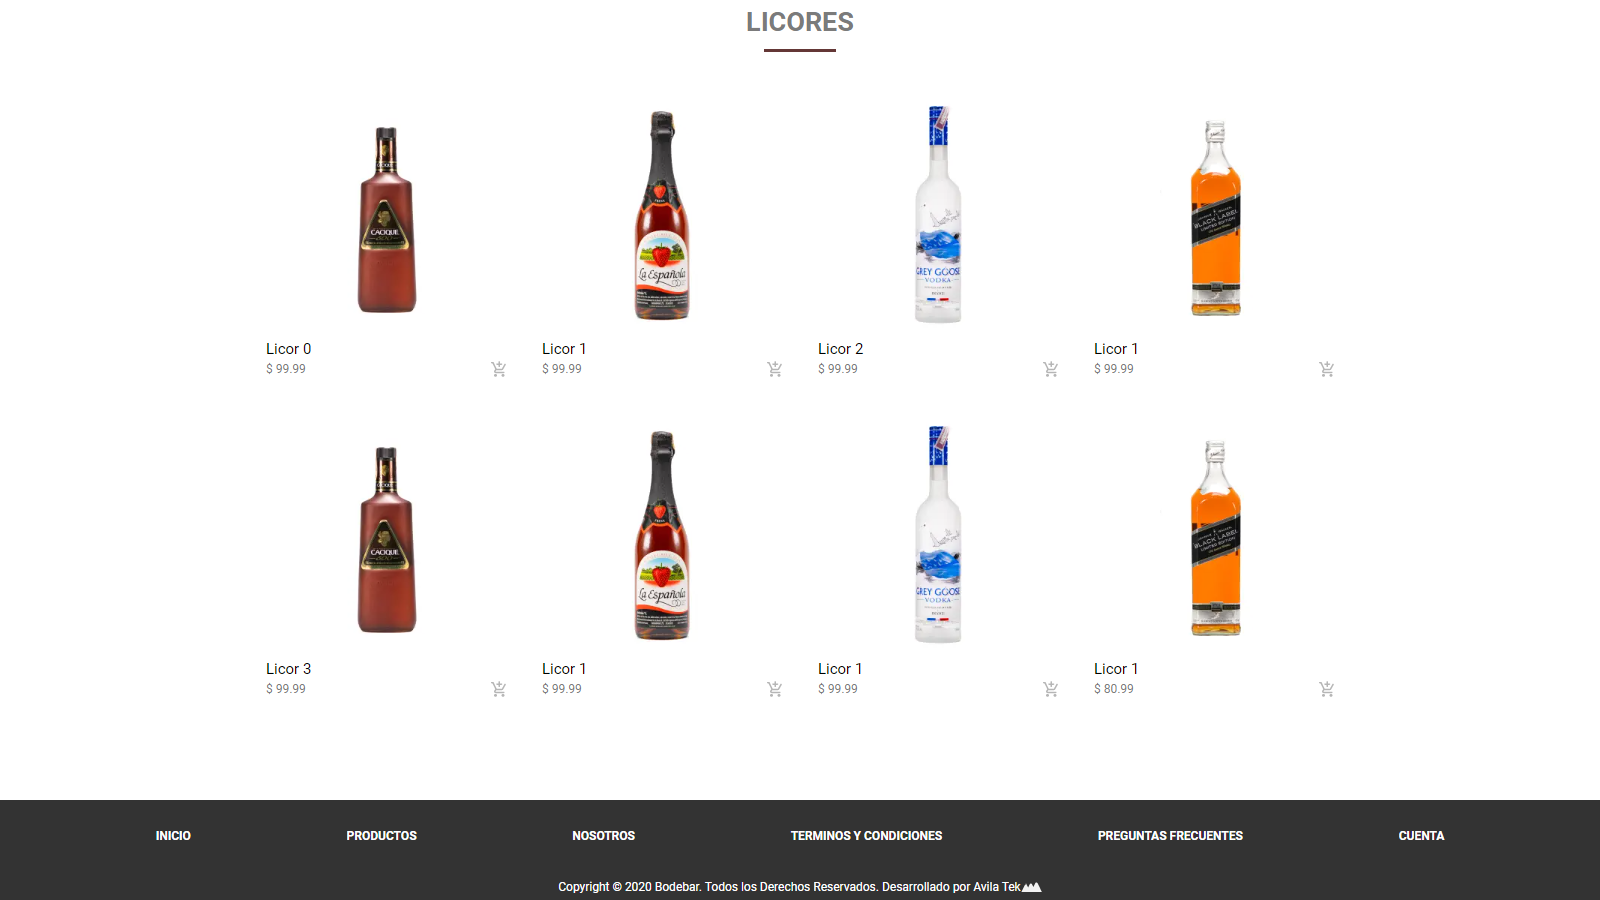
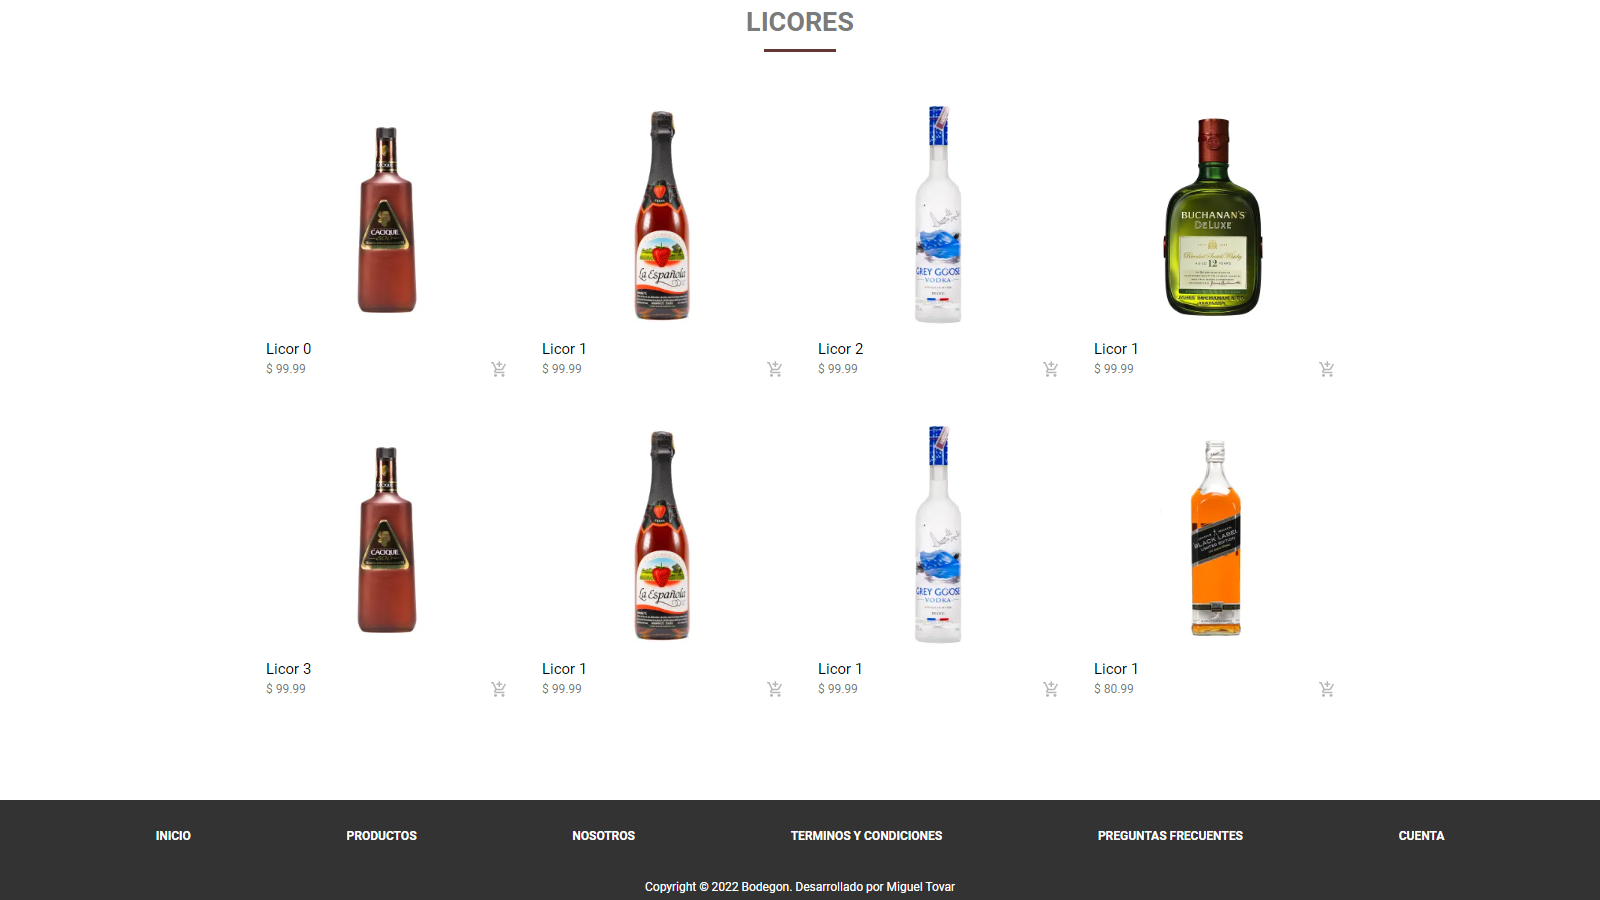
screen actualizados

Changed region(s): [[0.7188, 0.1244, 0.8125, 0.3733], [0.3438, 0.9644, 0.6562, 0.9956]]

diff --git a/components/Footer.tsx b/components/Footer.tsx
@@ -1,14 +1,15 @@
 import React from 'react';
 import Image from 'next/image';
+import Link from 'next/link';
 import avilatek from '../public/imgs/avilatek.svg';
 
 function Footer() {
   return (
     <footer className="h-40 bg-[#333333] text-white">
       <div className="pt-9">
-        <ul className="flex justify-evenly font-bold">
+        <ul className="flex justify-evenly font-bold cursor-pointer">
           <li>INICIO</li>
-          <li>PRODUCTOS</li>
+          <Link href="/products"><li>PRODUCTOS</li></Link>
           <li>NOSOTROS</li>
           <li>TERMINOS Y CONDICIONES</li>
           <li>PREGUNTAS FRECUENTES</li>
@@ -17,10 +18,10 @@ function Footer() {
       </div>
       <div className="flex justify-center pt-11 text-base font-normal">
         <p>
-          Copyright © 2020 Bodebar. Todos los Derechos Reservados. Desarrollado
-          por Avila Tek
+          Copyright © 2022 Bodegon. Desarrollado
+          por Miguel Tovar
         </p>
-        <Image src={avilatek} />
+        {/* <Image src={avilatek} /> */}
       </div>
     </footer>
   );

diff --git a/components/NavBar.tsx b/components/NavBar.tsx
@@ -1,7 +1,7 @@
 import Image from 'next/image';
 import Link from 'next/link';
 import SearchForm from './SerachForm';
-import bodebar from '../public/imgs/bodebar1.svg';
+import bodegon from '../public/imgs/Bodegon.png';
 import carrito from '../public/imgs/Carro.svg';
 import exit from '../public/imgs/Vectorexit.svg';
 
@@ -9,7 +9,9 @@ function NavBar() {
   return (
     <nav className="flex justify-between items-center h-28 pl-16 pr-14 space-x-6">
       <Link href="/">
-        <Image src={bodebar} height={64} className="h-16" />
+        <button type='button'>
+          <Image src={bodegon} className="h-16" />
+        </button>
       </Link>
       <SearchForm />
       <div className="flex">

diff --git a/products.js b/products.js
@@ -2,6 +2,7 @@ import product1 from './public/imgs/Rectangle12.png';
 import product2 from './public/imgs/Rectangle13.png';
 import product3 from './public/imgs/Rectangle14.png';
 import product4 from './public/imgs/Rectangle15.png';
+import product5 from './public/imgs/Rectangle 7.png';
 
 const categories = ['Whisky','Ron','Vinos','Destilados','Licores','Otros','Ofertas',]
 
@@ -29,7 +30,7 @@ const product = [{
 }, {
   "id": "7044aab6-bb3f-48c0-87d7-ffaa55922e51",
   "name": "Licor 1",
-  "image": product4,
+  "image": product5,
   "price": 99.99,
   "category": "WHISKY",
   "relevance": 88

diff --git a/pages/_app.tsx b/pages/_app.tsx
@@ -22,7 +22,7 @@ function MyApp({ Component, pageProps }: AppProps) {
   return (
     <>
       <Head>
-        <title>BodeBar</title>
+        <title>BodeGon</title>
       </Head>
       <Component {...pageProps} />
     </>

diff --git a/styles.css b/styles.css
@@ -94,6 +94,11 @@ body {
     display: none;
 }
 
+input[type=number]::-webkit-inner-spin-button,
+input[type=number]::-webkit-outer-spin-button {
+  -webkit-appearance: none;
+  margin: 0;
+}
 
 
 
